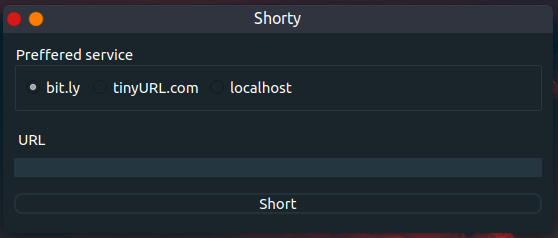
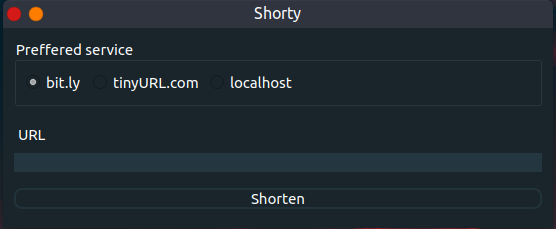
spelling correction & readme.md

diff --git a/main.py b/main.py
@@ -36,7 +36,7 @@ class Window(QWidget):
 
         # UI initialization
 
-        self.button = QPushButton('Short', self)
+        self.button = QPushButton('Shorten', self)
         self.button.clicked.connect(self.onClick)
         self.button.setMaximumHeight(50)
         self.button.setToolTip('Shorten')
